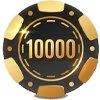
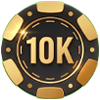
Switch pool betting chip presets to higher denominations
Replaces the pool-betting page's chip presets (10/20/50/100/1k/5k/10k)
with the new K-denomination artwork: 5k, 6k, 7k, 8k, 10k, 20k, 50k,
90k, 100k, applied to both the main bet-slip grid and the amount-
prompt modal. combined-betting.blade.php keeps its original smaller
preset set as-is.

Claude-Session: https://claude.ai/code/session_017j8RUS3A9mwuecYpSeFHf4

diff --git a/resources/views/player/pool-betting.blade.php b/resources/views/player/pool-betting.blade.php
@@ -354,8 +354,8 @@
 
     <!-- Bet slip -->
     <div id="bet-panel" class="bg-[#0a0e16] border border-[#141a2a] rounded-xl p-4">
-        <div class="grid grid-cols-7 gap-1 mb-3">
-            @foreach ([[10, '10'], [20, '20'], [50, '50'], [100, '100'], [1000, '1k'], [5000, '5k'], [10000, '10k']] as [$amount, $label])
+        <div class="grid grid-cols-5 gap-1 mb-3">
+            @foreach ([[5000, '5k'], [6000, '6k'], [7000, '7k'], [8000, '8k'], [10000, '10k'], [20000, '20k'], [50000, '50k'], [90000, '90k'], [100000, '100k']] as [$amount, $label])
                 <button type="button" class="chip-btn rounded-full transition" data-amount="{{ $amount }}">
                     <img src="{{ asset('images/player/chips/chip-'.$amount.'.png') }}" alt="{{ $label }}" class="w-full h-full object-contain pointer-events-none select-none" draggable="false">
                 </button>
@@ -1104,9 +1104,9 @@
 
     function promptAmountAndPlaceBet(side) {
         const meta = sideMeta[side];
-        const presets = [10, 20, 50, 100, 1000, 5000, 10000];
+        const presets = [5000, 6000, 7000, 8000, 10000, 20000, 50000, 90000, 100000];
         const chipsHtml = presets.map((p) =>
-            `<button type="button" class="swal-amount-chip" data-amount="${p}" style="aspect-ratio:1/1;max-width:68px;justify-self:center;padding:0;background:none;border:none;cursor:pointer;">` +
+            `<button type="button" class="swal-amount-chip" data-amount="${p}" style="aspect-ratio:1/1;max-width:60px;justify-self:center;padding:0;background:none;border:none;cursor:pointer;">` +
                 `<img src="${chipImageBase}/chip-${p}.png" alt="${p}" style="width:100%;height:100%;object-fit:contain;pointer-events:none;" draggable="false">` +
             `</button>`
         ).join('');
@@ -1115,7 +1115,7 @@
             title: i18n.enterAmount,
             html:
                 `<p style="font-size:13px;color:#8a7a70;margin:0 0 12px;">${i18n.chooseAmountText.replace(':side', meta.label.toUpperCase())}</p>` +
-                `<div style="display:grid;grid-template-columns:repeat(4,1fr);gap:6px;margin-bottom:10px;">${chipsHtml}</div>` +
+                `<div style="display:grid;grid-template-columns:repeat(5,1fr);gap:6px;margin-bottom:10px;">${chipsHtml}</div>` +
                 `<input id="swal-amount-input" class="amount-input" type="text" inputmode="numeric" data-decimals="0" placeholder="${i18n.amountPlaceholder}" style="width:100%;box-sizing:border-box;background:#05070b;border:1px solid #141a2a;border-radius:9px;padding:9px 12px;color:#f5efe9;font-size:14px;">` +
                 (minBet ? `<p style="font-size:11px;color:#8a7a70;margin:6px 0 0;">{{ __('Minimum bet:') }} {{ $theme['currency'] }}${fmt(minBet)}</p>` : ''),
             showCancelButton: true,
